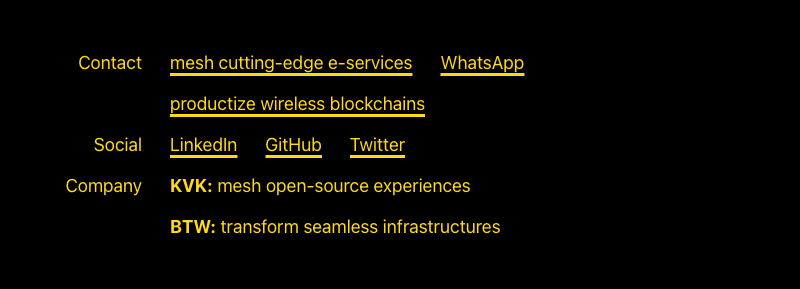
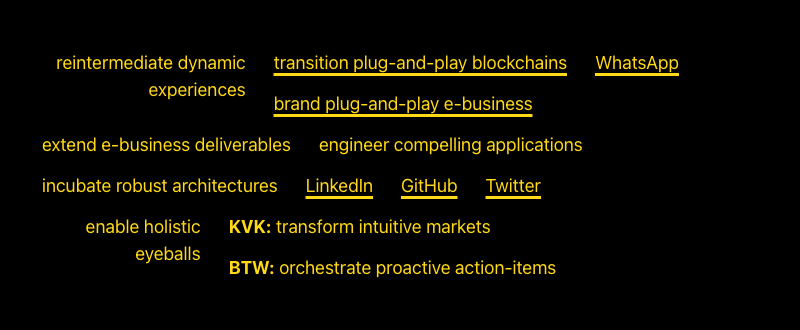
Add location to footer and translate labels

Changed region(s): [[0.0312, 0.1557, 0.75, 0.7163], [0.1562, 0.7474, 0.7188, 0.8408], [0.75, 0.1557, 0.8438, 0.2491]]

diff --git a/slices/FooterSlice/index.tsx b/slices/FooterSlice/index.tsx
@@ -1,6 +1,12 @@
 import styled from "@emotion/styled";
 import { asLink } from "@prismicio/helpers";
-import { KeyTextField, LinkField, NumberField, Slice } from "@prismicio/types";
+import {
+  GeoPointField,
+  KeyTextField,
+  LinkField,
+  NumberField,
+  Slice,
+} from "@prismicio/types";
 
 import Container from "../../components/Container";
 import Link from "../../components/Link";
@@ -34,15 +40,21 @@ const Item = styled.div``;
 export type PrismicFooterSlice = Slice<
   "footer_slice",
   {
+    contactLabel: KeyTextField;
     email: KeyTextField;
     phone: KeyTextField;
     whatsApp: NumberField;
+    socialLabel: KeyTextField;
     linkedIn: LinkField;
     gitHub: LinkField;
     twitter: LinkField;
+    companyLabel: KeyTextField;
     kvk: KeyTextField;
     btw: KeyTextField;
     iban: KeyTextField;
+    locationLabel: KeyTextField;
+    city: KeyTextField;
+    location: GeoPointField;
   }
 >;
 
@@ -59,7 +71,7 @@ const FooterSlice = ({ slice }: Props) => {
     <Section className="inverted" id="footer">
       <Container>
         <ContactRow>
-          <Label>Contact</Label>
+          <Label>{slice.primary.contactLabel}</Label>
           <Values>
             {slice.primary.email && (
               <Item>
@@ -84,8 +96,16 @@ const FooterSlice = ({ slice }: Props) => {
             )}
           </Values>
         </ContactRow>
+        {slice.primary.city && (
+          <Row>
+            <Label>{slice.primary.locationLabel}</Label>
+            <Values>
+              <Item>{slice.primary.city}</Item>
+            </Values>
+          </Row>
+        )}
         <SocialRow>
-          <Label>Social</Label>
+          <Label>{slice.primary.socialLabel}</Label>
           <Values>
             {linkedIn && (
               <Item>
@@ -105,7 +125,7 @@ const FooterSlice = ({ slice }: Props) => {
           </Values>
         </SocialRow>
         <BusinessRow>
-          <Label>Company</Label>
+          <Label>{slice.primary.companyLabel}</Label>
           <Values>
             {slice.primary.kvk && (
               <Item>

diff --git a/.slicemachine/assets/slices/FooterSlice/index.stories.js b/.slicemachine/assets/slices/FooterSlice/index.stories.js
@@ -5,5 +5,5 @@ export default {
 }
 
 
-export const _Default = () => <MyComponent slice={{"variation":"default","name":"Default","slice_type":"footer_slice","items":[],"primary":{"email":"mesh cutting-edge e-services","phone":"productize wireless blockchains","whatsApp":5159,"linkedIn":{"link_type":"Web","url":"https://slicemachine.dev"},"gitHub":{"link_type":"Web","url":"https://prismic.io"},"twitter":{"link_type":"Web","url":"https://slicemachine.dev"},"kvk":"mesh open-source experiences","btw":"transform seamless infrastructures","iban":"mesh bleeding-edge vortals"},"id":"_Default"}} />
+export const _Default = () => <MyComponent slice={{"variation":"default","name":"Default","slice_type":"footer_slice","items":[],"primary":{"contactLabel":"reintermediate dynamic experiences","email":"transition plug-and-play blockchains","phone":"brand plug-and-play e-business","whatsApp":7316,"socialLabel":"incubate robust architectures","linkedIn":{"link_type":"Web","url":"http://google.com"},"gitHub":{"link_type":"Web","url":"https://slicemachine.dev"},"twitter":{"link_type":"Web","url":"https://prismic.io"},"companyLabel":"enable holistic eyeballs","kvk":"transform intuitive markets","btw":"orchestrate proactive action-items","iban":"morph 24/365 portals","locationLabel":"extend e-business deliverables","city":"engineer compelling applications","location":{"latitude":48.8606111,"longitude":2.337644}},"id":"_Default"}} />
 _Default.storyName = 'Default'
